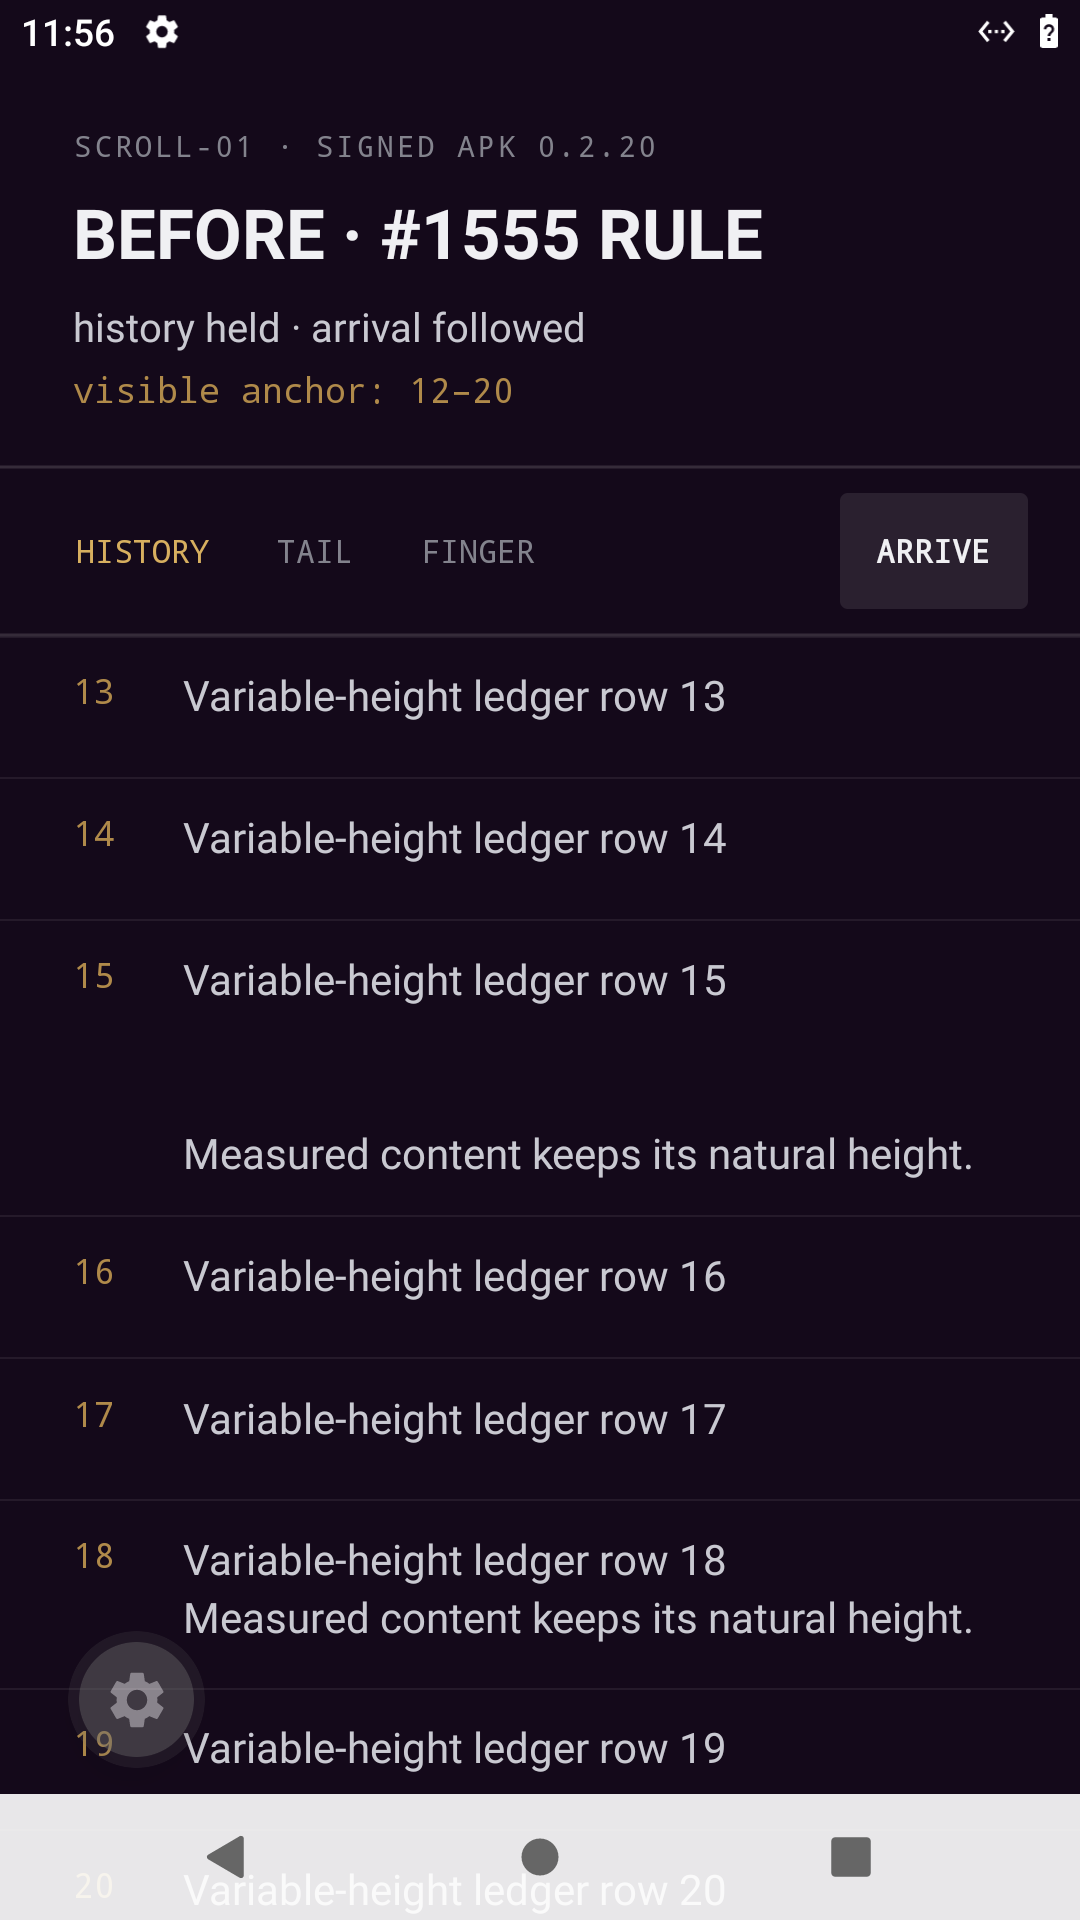
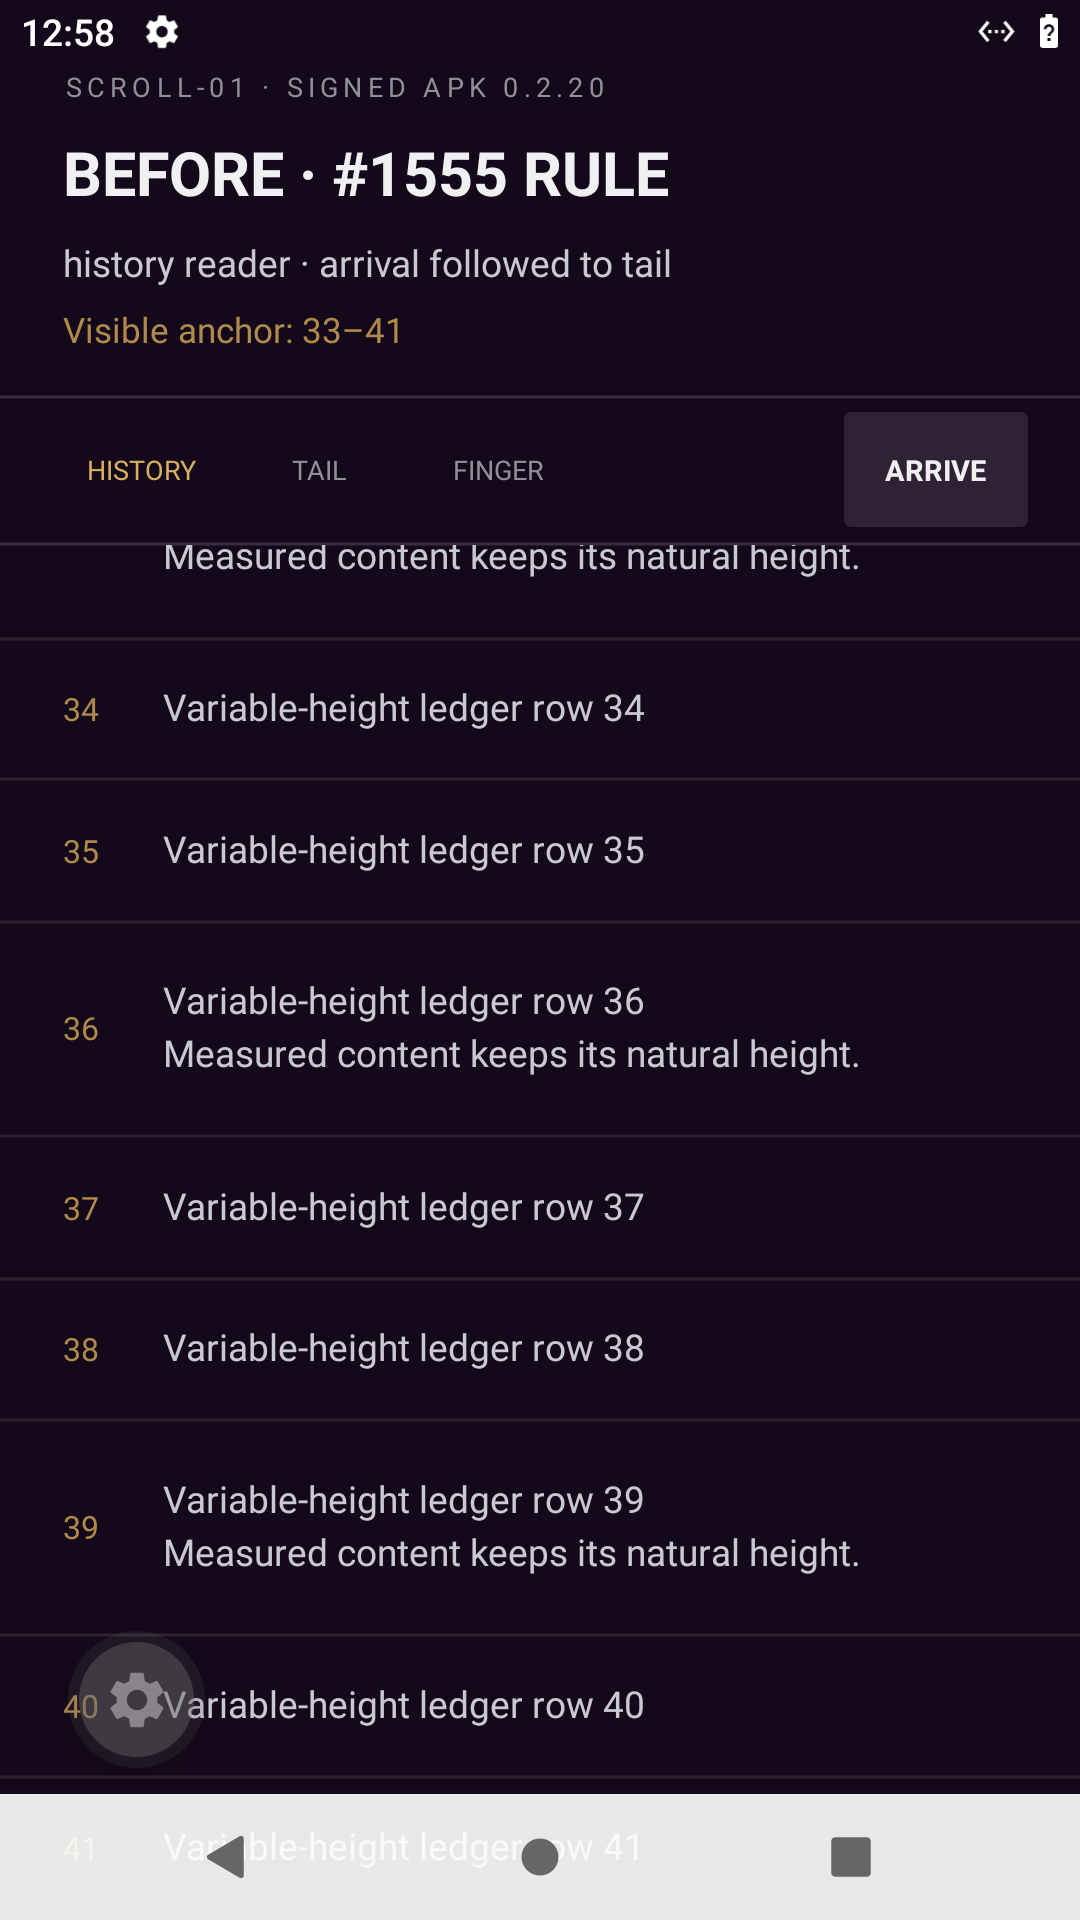
docs(mobile): correct signed history-jump proof

diff --git a/apps/mobile/evidence/scroll01/README.md b/apps/mobile/evidence/scroll01/README.md
@@ -14,7 +14,7 @@ visible-child anchoring.
 ## Frames
 
 - `before-history-jump.png`: a history reader is pulled from rows 11–19 to the
-  tail, rows 35–41, when one row arrives.
+  tail, rows 33–41, when one row arrives.
 - `after-history-hold.png`: the same arrival is queued and the measured visible
   range remains rows 12–20.
 - `before-tail-follow.png` / `after-tail-follow.png`: a pinned reader reaches
